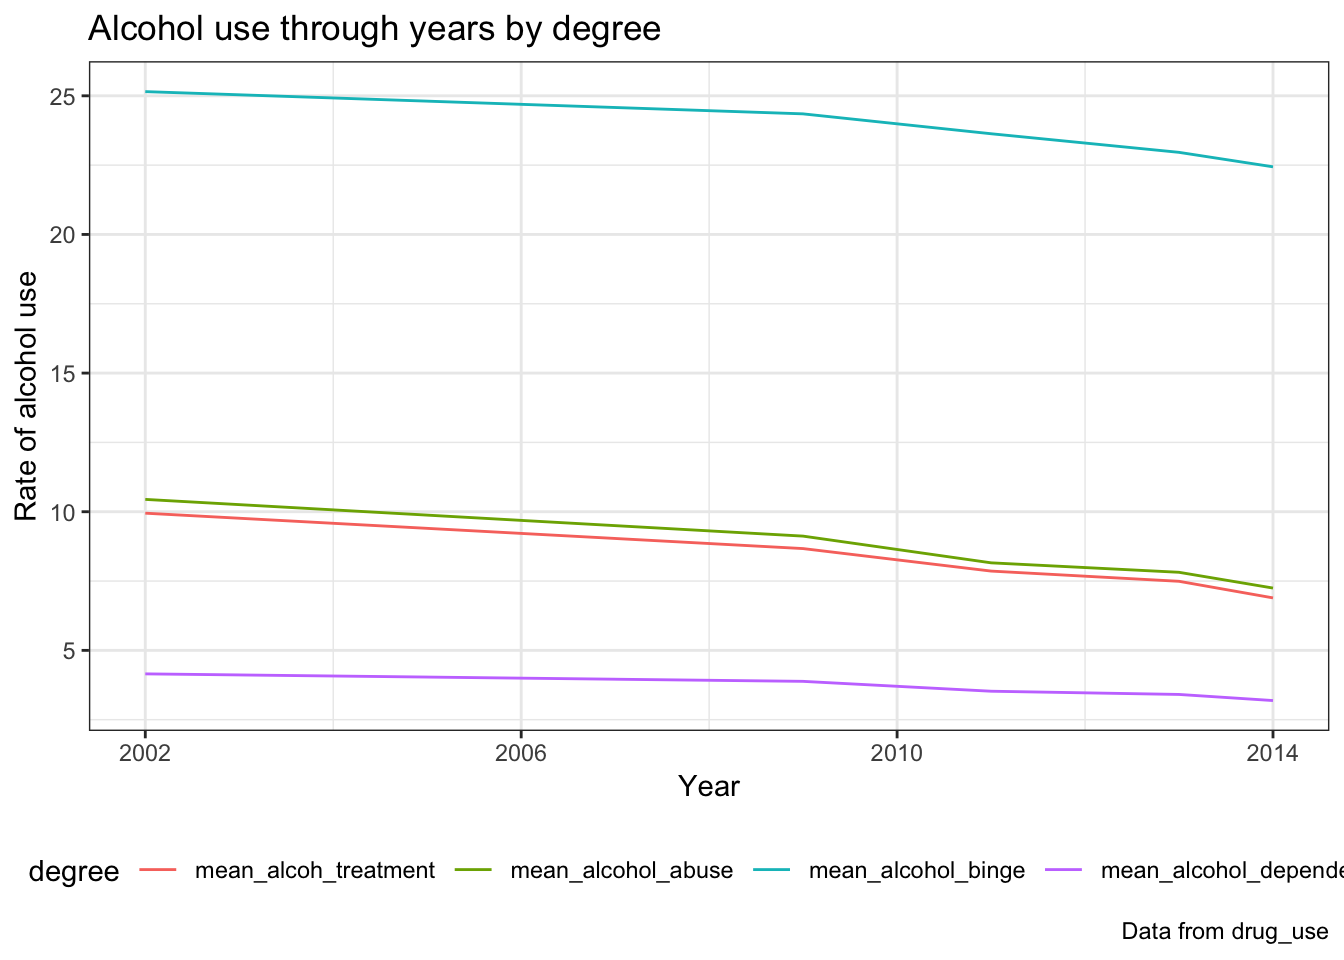
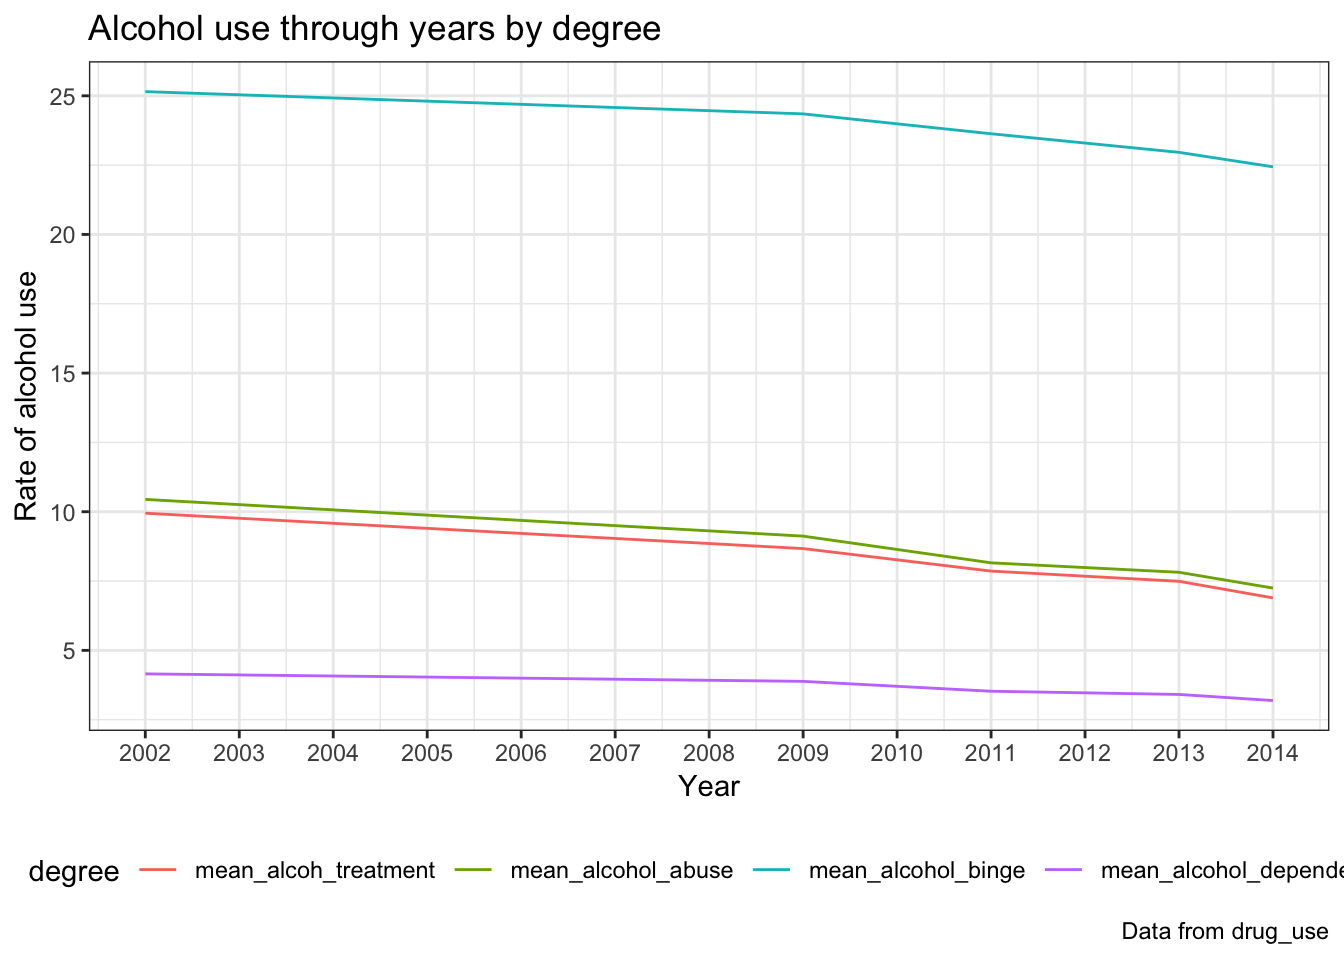
Exploratory plots, add marijuana

diff --git a/Drug_code.html b/Drug_code.html
@@ -268,7 +268,7 @@ $(document).ready(function () {
          rates_alcohol_abuse_past_year_12_17:rates_alcohol_dependence_past_year_26,
          rates_alcohol_need_treatment_past_year_12_17:rates_illicit_drugs_abuse_past_month_26, 
          rates_illicit_drugs_cocaine_used_past_year_12_17:rates_illicit_drugs_need_treatment_past_year_26,
-         rates_marijuana_new_users_12_17:rates_marijuana_used_past_month_26) %&gt;%
+         rates_marijuana_new_users_12_17:rates_marijuana_used_past_year_26) %&gt;%
   gather(key, value, -state, -year) %&gt;% 
   mutate(key = str_replace_all(key, c(&quot;year_&quot; = &quot;year:&quot;, &quot;month_&quot; = &quot;month:&quot;, &quot;risk_&quot; = &quot;risk:&quot;, &quot;users_&quot; = &quot;users:&quot;))) %&gt;%
   separate(key, into = c(&quot;rate&quot;, &quot;age&quot;), sep = &quot;:&quot;, extra = &quot;merge&quot;) %&gt;%
@@ -390,7 +390,7 @@ drug_clean = left_join(drug_data, population_data)</code></pre>
     caption = &quot;Data from drug_use&quot;
   ) +
   theme(legend.position = &quot;bottom&quot;) +
-  scale_x_continuous(breaks = c(2002, 2006, 2010, 2014))</code></pre>
+  scale_x_continuous(breaks = c(2002:2014))</code></pre>
 <p><img src="Drug_code_files/figure-html/alcohol_use_year-1.png" width="672" /></p>
 </div>
 <div id="explore-other-drugs" class="section level2">
@@ -431,8 +431,8 @@ drug_clean = left_join(drug_data, population_data)</code></pre>
     mean_past_year_cocaine_state = mean(illicit_drugs_cocaine_used_past_year)) %&gt;%
   mutate(state = fct_reorder(state, mean_past_year_cocaine_state)) %&gt;% 
   plot_ly(x = ~state, y = ~mean_past_year_cocaine_state, type = &quot;bar&quot;, showlegend = FALSE, marker = list(color = ~state, showscale = FALSE))</code></pre>
-<div id="htmlwidget-8c15f305fc737e8a5fb5" style="width:672px;height:480px;" class="plotly html-widget"></div>
-<script type="application/json" data-for="htmlwidget-8c15f305fc737e8a5fb5">{"x":{"visdat":{"e6315bf89ba":["function () ","plotlyVisDat"]},"cur_data":"e6315bf89ba","attrs":{"e6315bf89ba":{"x":{},"y":{},"showlegend":false,"marker":{"color":{},"showscale":false},"alpha_stroke":1,"sizes":[10,100],"spans":[1,20],"type":"bar"}},"layout":{"margin":{"b":40,"l":60,"t":25,"r":10},"xaxis":{"domain":[0,1],"automargin":true,"title":"state","type":"category","categoryorder":"array","categoryarray":["Mississippi","North Dakota","Alabama","South Dakota","Idaho","Utah","Arkansas","Georgia","Tennessee","Oklahoma","Iowa","Maryland","Louisiana","Nebraska","Indiana","Hawaii","Wyoming","Virginia","Michigan","Kansas","Minnesota","Kentucky","South Carolina","Ohio","Missouri","Illinois","North Carolina","Pennsylvania","Texas","Wisconsin","District of Columbia","Delaware","Florida","West Virginia","New Jersey","Montana","Washington","Nevada","Connecticut","Alaska","California","New York","Maine","Oregon","Arizona","Massachusetts","New Mexico","Rhode Island","Vermont","New Hampshire","Colorado"]},"yaxis":{"domain":[0,1],"automargin":true,"title":"mean_past_year_cocaine_state"},"hovermode":"closest","showlegend":false},"source":"A","config":{"modeBarButtonsToAdd":[{"name":"Collaborate","icon":{"width":1000,"ascent":500,"descent":-50,"path":"M487 375c7-10 9-23 5-36l-79-259c-3-12-11-23-22-31-11-8-22-12-35-12l-263 0c-15 0-29 5-43 15-13 10-23 23-28 37-5 13-5 25-1 37 0 0 0 3 1 7 1 5 1 8 1 11 0 2 0 4-1 6 0 3-1 5-1 6 1 2 2 4 3 6 1 2 2 4 4 6 2 3 4 5 5 7 5 7 9 16 13 26 4 10 7 19 9 26 0 2 0 5 0 9-1 4-1 6 0 8 0 2 2 5 4 8 3 3 5 5 5 7 4 6 8 15 12 26 4 11 7 19 7 26 1 1 0 4 0 9-1 4-1 7 0 8 1 2 3 5 6 8 4 4 6 6 6 7 4 5 8 13 13 24 4 11 7 20 7 28 1 1 0 4 0 7-1 3-1 6-1 7 0 2 1 4 3 6 1 1 3 4 5 6 2 3 3 5 5 6 1 2 3 5 4 9 2 3 3 7 5 10 1 3 2 6 4 10 2 4 4 7 6 9 2 3 4 5 7 7 3 2 7 3 11 3 3 0 8 0 13-1l0-1c7 2 12 2 14 2l218 0c14 0 25-5 32-16 8-10 10-23 6-37l-79-259c-7-22-13-37-20-43-7-7-19-10-37-10l-248 0c-5 0-9-2-11-5-2-3-2-7 0-12 4-13 18-20 41-20l264 0c5 0 10 2 16 5 5 3 8 6 10 11l85 282c2 5 2 10 2 17 7-3 13-7 17-13z m-304 0c-1-3-1-5 0-7 1-1 3-2 6-2l174 0c2 0 4 1 7 2 2 2 4 4 5 7l6 18c0 3 0 5-1 7-1 1-3 2-6 2l-173 0c-3 0-5-1-8-2-2-2-4-4-4-7z m-24-73c-1-3-1-5 0-7 2-2 3-2 6-2l174 0c2 0 5 0 7 2 3 2 4 4 5 7l6 18c1 2 0 5-1 6-1 2-3 3-5 3l-174 0c-3 0-5-1-7-3-3-1-4-4-5-6z"},"click":"function(gd) { \n        // is this being viewed in RStudio?\n        if (location.search == '?viewer_pane=1') {\n          alert('To learn about plotly for collaboration, visit:\\n https://cpsievert.github.io/plotly_book/plot-ly-for-collaboration.html');\n        } else {\n          window.open('https://cpsievert.github.io/plotly_book/plot-ly-for-collaboration.html', '_blank');\n        }\n      }"}],"cloud":false},"data":[{"x":["Alabama","Alaska","Arizona","Arkansas","California","Colorado","Connecticut","Delaware","District of Columbia","Florida","Georgia","Hawaii","Idaho","Illinois","Indiana","Iowa","Kansas","Kentucky","Louisiana","Maine","Maryland","Massachusetts","Michigan","Minnesota","Mississippi","Missouri","Montana","Nebraska","Nevada","New Hampshire","New Jersey","New Mexico","New York","North Carolina","North Dakota","Ohio","Oklahoma","Oregon","Pennsylvania","Rhode Island","South Carolina","South Dakota","Tennessee","Texas","Utah","Vermont","Virginia","Washington","West Virginia","Wisconsin","Wyoming"],"y":[1.88769230769231,2.97461538461538,3.38051282051282,2.02461538461538,2.98179487179487,4.25025641025641,2.91461538461538,2.76974358974359,2.71076923076923,2.79435897435897,2.1325641025641,2.32794871794872,1.95871794871795,2.51384615384615,2.31641025641026,2.16205128205128,2.37179487179487,2.41025641025641,2.24692307692308,3.09307692307692,2.16846153846154,3.49102564102564,2.37128205128205,2.39564102564103,1.82769230769231,2.48410256410256,2.88179487179487,2.25589743589744,2.90846153846154,4.00282051282051,2.82358974358974,3.58717948717949,3.00794871794872,2.52051282051282,1.88615384615385,2.43974358974359,2.13948717948718,3.10102564102564,2.58641025641026,3.9425641025641,2.43384615384615,1.93025641025641,2.13717948717949,2.59820512820513,2.01025641025641,3.98230769230769,2.36384615384615,2.88769230769231,2.80692307692308,2.67846153846154,2.35461538461538],"showlegend":false,"marker":{"color":["Alabama","Alaska","Arizona","Arkansas","California","Colorado","Connecticut","Delaware","District of Columbia","Florida","Georgia","Hawaii","Idaho","Illinois","Indiana","Iowa","Kansas","Kentucky","Louisiana","Maine","Maryland","Massachusetts","Michigan","Minnesota","Mississippi","Missouri","Montana","Nebraska","Nevada","New Hampshire","New Jersey","New Mexico","New York","North Carolina","North Dakota","Ohio","Oklahoma","Oregon","Pennsylvania","Rhode Island","South Carolina","South Dakota","Tennessee","Texas","Utah","Vermont","Virginia","Washington","West Virginia","Wisconsin","Wyoming"],"showscale":false,"line":{"color":"rgba(31,119,180,1)"}},"type":"bar","error_y":{"color":"rgba(31,119,180,1)"},"error_x":{"color":"rgba(31,119,180,1)"},"xaxis":"x","yaxis":"y","frame":null}],"highlight":{"on":"plotly_click","persistent":false,"dynamic":false,"selectize":false,"opacityDim":0.2,"selected":{"opacity":1},"debounce":0},"base_url":"https://plot.ly"},"evals":["config.modeBarButtonsToAdd.0.click"],"jsHooks":[]}</script>
+<div id="htmlwidget-b964bea072361f085cf0" style="width:672px;height:480px;" class="plotly html-widget"></div>
+<script type="application/json" data-for="htmlwidget-b964bea072361f085cf0">{"x":{"visdat":{"7de25ac555d9":["function () ","plotlyVisDat"]},"cur_data":"7de25ac555d9","attrs":{"7de25ac555d9":{"x":{},"y":{},"showlegend":false,"marker":{"color":{},"showscale":false},"alpha_stroke":1,"sizes":[10,100],"spans":[1,20],"type":"bar"}},"layout":{"margin":{"b":40,"l":60,"t":25,"r":10},"xaxis":{"domain":[0,1],"automargin":true,"title":"state","type":"category","categoryorder":"array","categoryarray":["Mississippi","North Dakota","Alabama","South Dakota","Idaho","Utah","Arkansas","Georgia","Tennessee","Oklahoma","Iowa","Maryland","Louisiana","Nebraska","Indiana","Hawaii","Wyoming","Virginia","Michigan","Kansas","Minnesota","Kentucky","South Carolina","Ohio","Missouri","Illinois","North Carolina","Pennsylvania","Texas","Wisconsin","District of Columbia","Delaware","Florida","West Virginia","New Jersey","Montana","Washington","Nevada","Connecticut","Alaska","California","New York","Maine","Oregon","Arizona","Massachusetts","New Mexico","Rhode Island","Vermont","New Hampshire","Colorado"]},"yaxis":{"domain":[0,1],"automargin":true,"title":"mean_past_year_cocaine_state"},"hovermode":"closest","showlegend":false},"source":"A","config":{"modeBarButtonsToAdd":[{"name":"Collaborate","icon":{"width":1000,"ascent":500,"descent":-50,"path":"M487 375c7-10 9-23 5-36l-79-259c-3-12-11-23-22-31-11-8-22-12-35-12l-263 0c-15 0-29 5-43 15-13 10-23 23-28 37-5 13-5 25-1 37 0 0 0 3 1 7 1 5 1 8 1 11 0 2 0 4-1 6 0 3-1 5-1 6 1 2 2 4 3 6 1 2 2 4 4 6 2 3 4 5 5 7 5 7 9 16 13 26 4 10 7 19 9 26 0 2 0 5 0 9-1 4-1 6 0 8 0 2 2 5 4 8 3 3 5 5 5 7 4 6 8 15 12 26 4 11 7 19 7 26 1 1 0 4 0 9-1 4-1 7 0 8 1 2 3 5 6 8 4 4 6 6 6 7 4 5 8 13 13 24 4 11 7 20 7 28 1 1 0 4 0 7-1 3-1 6-1 7 0 2 1 4 3 6 1 1 3 4 5 6 2 3 3 5 5 6 1 2 3 5 4 9 2 3 3 7 5 10 1 3 2 6 4 10 2 4 4 7 6 9 2 3 4 5 7 7 3 2 7 3 11 3 3 0 8 0 13-1l0-1c7 2 12 2 14 2l218 0c14 0 25-5 32-16 8-10 10-23 6-37l-79-259c-7-22-13-37-20-43-7-7-19-10-37-10l-248 0c-5 0-9-2-11-5-2-3-2-7 0-12 4-13 18-20 41-20l264 0c5 0 10 2 16 5 5 3 8 6 10 11l85 282c2 5 2 10 2 17 7-3 13-7 17-13z m-304 0c-1-3-1-5 0-7 1-1 3-2 6-2l174 0c2 0 4 1 7 2 2 2 4 4 5 7l6 18c0 3 0 5-1 7-1 1-3 2-6 2l-173 0c-3 0-5-1-8-2-2-2-4-4-4-7z m-24-73c-1-3-1-5 0-7 2-2 3-2 6-2l174 0c2 0 5 0 7 2 3 2 4 4 5 7l6 18c1 2 0 5-1 6-1 2-3 3-5 3l-174 0c-3 0-5-1-7-3-3-1-4-4-5-6z"},"click":"function(gd) { \n        // is this being viewed in RStudio?\n        if (location.search == '?viewer_pane=1') {\n          alert('To learn about plotly for collaboration, visit:\\n https://cpsievert.github.io/plotly_book/plot-ly-for-collaboration.html');\n        } else {\n          window.open('https://cpsievert.github.io/plotly_book/plot-ly-for-collaboration.html', '_blank');\n        }\n      }"}],"cloud":false},"data":[{"x":["Alabama","Alaska","Arizona","Arkansas","California","Colorado","Connecticut","Delaware","District of Columbia","Florida","Georgia","Hawaii","Idaho","Illinois","Indiana","Iowa","Kansas","Kentucky","Louisiana","Maine","Maryland","Massachusetts","Michigan","Minnesota","Mississippi","Missouri","Montana","Nebraska","Nevada","New Hampshire","New Jersey","New Mexico","New York","North Carolina","North Dakota","Ohio","Oklahoma","Oregon","Pennsylvania","Rhode Island","South Carolina","South Dakota","Tennessee","Texas","Utah","Vermont","Virginia","Washington","West Virginia","Wisconsin","Wyoming"],"y":[1.88769230769231,2.97461538461538,3.38051282051282,2.02461538461538,2.98179487179487,4.25025641025641,2.91461538461538,2.76974358974359,2.71076923076923,2.79435897435897,2.1325641025641,2.32794871794872,1.95871794871795,2.51384615384615,2.31641025641026,2.16205128205128,2.37179487179487,2.41025641025641,2.24692307692308,3.09307692307692,2.16846153846154,3.49102564102564,2.37128205128205,2.39564102564103,1.82769230769231,2.48410256410256,2.88179487179487,2.25589743589744,2.90846153846154,4.00282051282051,2.82358974358974,3.58717948717949,3.00794871794872,2.52051282051282,1.88615384615385,2.43974358974359,2.13948717948718,3.10102564102564,2.58641025641026,3.9425641025641,2.43384615384615,1.93025641025641,2.13717948717949,2.59820512820513,2.01025641025641,3.98230769230769,2.36384615384615,2.88769230769231,2.80692307692308,2.67846153846154,2.35461538461538],"showlegend":false,"marker":{"color":["Alabama","Alaska","Arizona","Arkansas","California","Colorado","Connecticut","Delaware","District of Columbia","Florida","Georgia","Hawaii","Idaho","Illinois","Indiana","Iowa","Kansas","Kentucky","Louisiana","Maine","Maryland","Massachusetts","Michigan","Minnesota","Mississippi","Missouri","Montana","Nebraska","Nevada","New Hampshire","New Jersey","New Mexico","New York","North Carolina","North Dakota","Ohio","Oklahoma","Oregon","Pennsylvania","Rhode Island","South Carolina","South Dakota","Tennessee","Texas","Utah","Vermont","Virginia","Washington","West Virginia","Wisconsin","Wyoming"],"showscale":false,"line":{"color":"rgba(31,119,180,1)"}},"type":"bar","error_y":{"color":"rgba(31,119,180,1)"},"error_x":{"color":"rgba(31,119,180,1)"},"xaxis":"x","yaxis":"y","frame":null}],"highlight":{"on":"plotly_click","persistent":false,"dynamic":false,"selectize":false,"opacityDim":0.2,"selected":{"opacity":1},"debounce":0},"base_url":"https://plot.ly"},"evals":["config.modeBarButtonsToAdd.0.click"],"jsHooks":[]}</script>
 <ul>
 <li>Illicit drug use by state</li>
 </ul>
@@ -455,6 +455,55 @@ drug_clean = left_join(drug_data, population_data)</code></pre>
   ) +
   theme(legend.position = &quot;bottom&quot;)</code></pre>
 <p><img src="Drug_code_files/figure-html/illicit_state-1.png" width="672" /></p>
+<ul>
+<li>Marijuana</li>
+</ul>
+<pre class="r"><code>drug_clean %&gt;%
+  group_by(year, age) %&gt;% 
+  summarize(mean_marijuana_year = mean(marijuana_used_past_year)) %&gt;% 
+  ggplot(aes(x = year, y = mean_marijuana_year, color = age)) +
+  geom_line() +
+  theme_bw() +
+  labs(
+    title = &quot;Marijuana use through years by age&quot;,
+    x = &quot;Year&quot;,
+    y = &quot;Rate of marijuana use&quot;,
+    caption = &quot;Data from drug_use&quot;
+  ) +
+  theme(legend.position = &quot;bottom&quot;) +
+  scale_x_continuous(breaks = c(2002:2014))</code></pre>
+<p><img src="Drug_code_files/figure-html/unnamed-chunk-1-1.png" width="672" /></p>
+<pre class="r"><code>drug_clean %&gt;%
+  group_by(state, age) %&gt;% 
+  summarize(mean_marijuana_year = mean(marijuana_used_past_year)) %&gt;% 
+  ggplot(aes(x = state, y = mean_marijuana_year)) +
+  geom_bar(aes(fill = age), stat = &quot;identity&quot;) +
+  theme_bw() +
+  theme(axis.text.x = element_text(angle = 90, hjust = 1)) +
+  labs(
+    title = &quot;Marijuana use through state by age&quot;,
+    x = &quot;Year&quot;,
+    y = &quot;Rate of marijuana use&quot;,
+    caption = &quot;Data from drug_use&quot;
+  ) +
+  theme(legend.position = &quot;bottom&quot;)</code></pre>
+<p><img src="Drug_code_files/figure-html/unnamed-chunk-2-1.png" width="672" /></p>
+<pre class="r"><code>drug_clean %&gt;%
+  group_by(state) %&gt;% 
+  summarize(mean_marijuana_year = mean(marijuana_used_past_year)) %&gt;% 
+  mutate(state = fct_reorder(state, mean_marijuana_year)) %&gt;% 
+  ggplot(aes(x = state, y = mean_marijuana_year)) +
+  geom_bar(stat = &quot;identity&quot;) +
+  theme_bw() +
+  theme(axis.text.x = element_text(angle = 90, hjust = 1)) +
+  labs(
+    title = &quot;Marijuana use through state&quot;,
+    x = &quot;Year&quot;,
+    y = &quot;Rate of marijuana use&quot;,
+    caption = &quot;Data from drug_use&quot;
+  ) +
+  theme(legend.position = &quot;bottom&quot;)</code></pre>
+<p><img src="Drug_code_files/figure-html/unnamed-chunk-2-2.png" width="672" /></p>
 </div>
 
 
